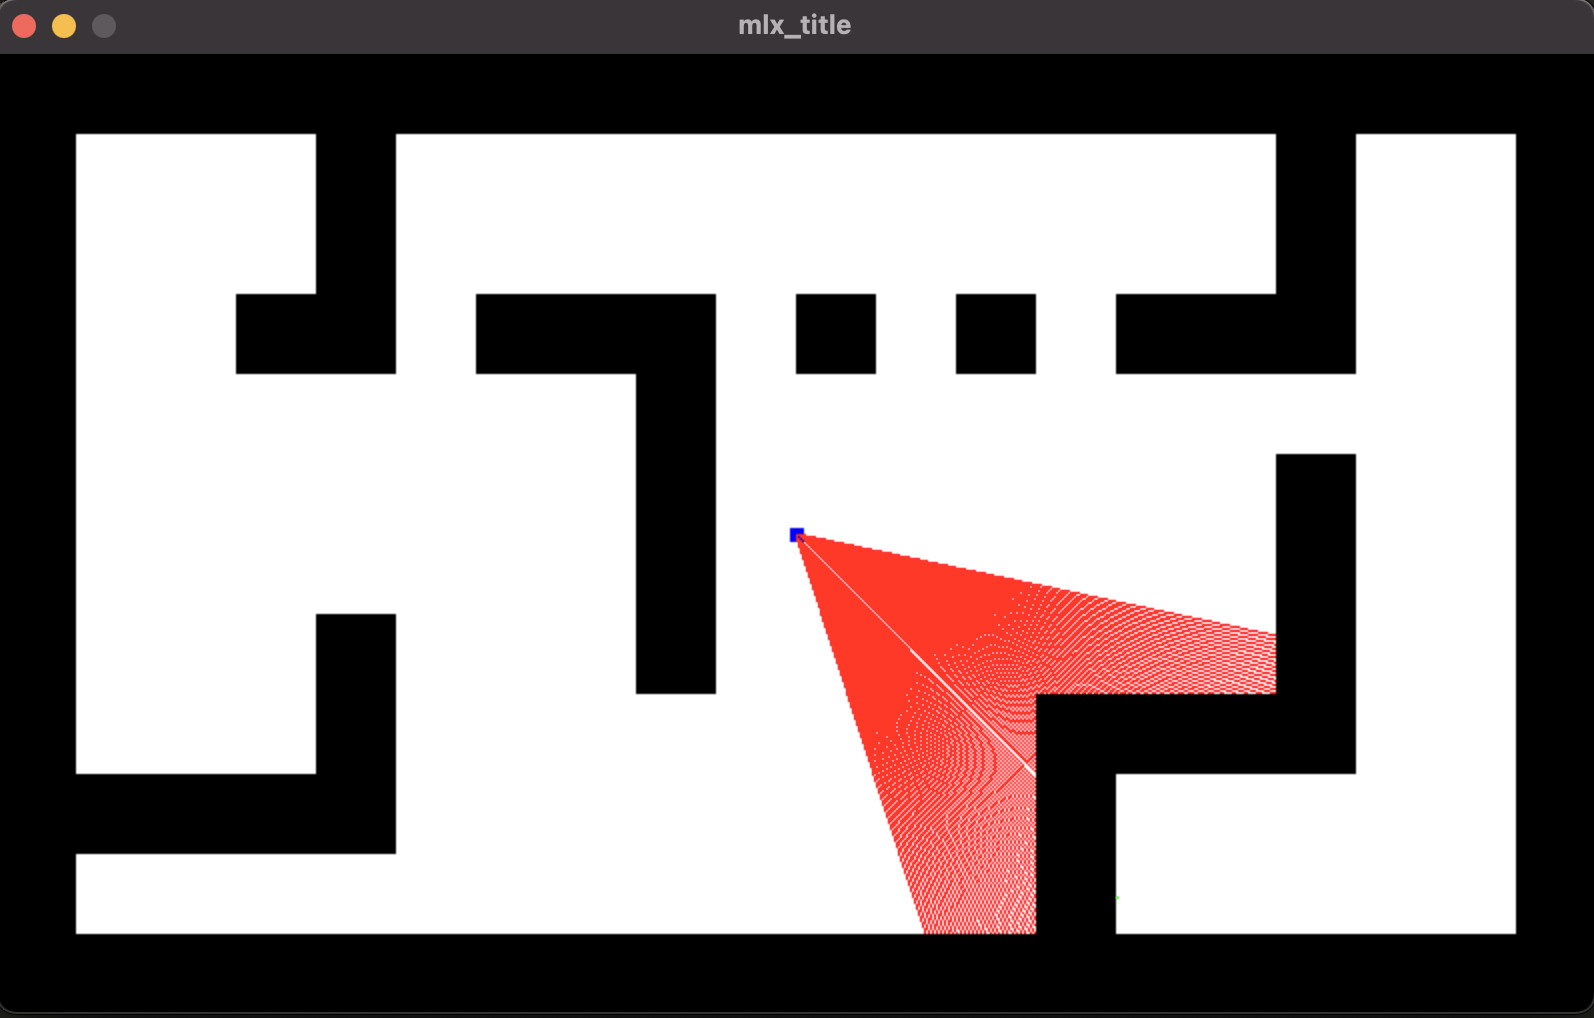
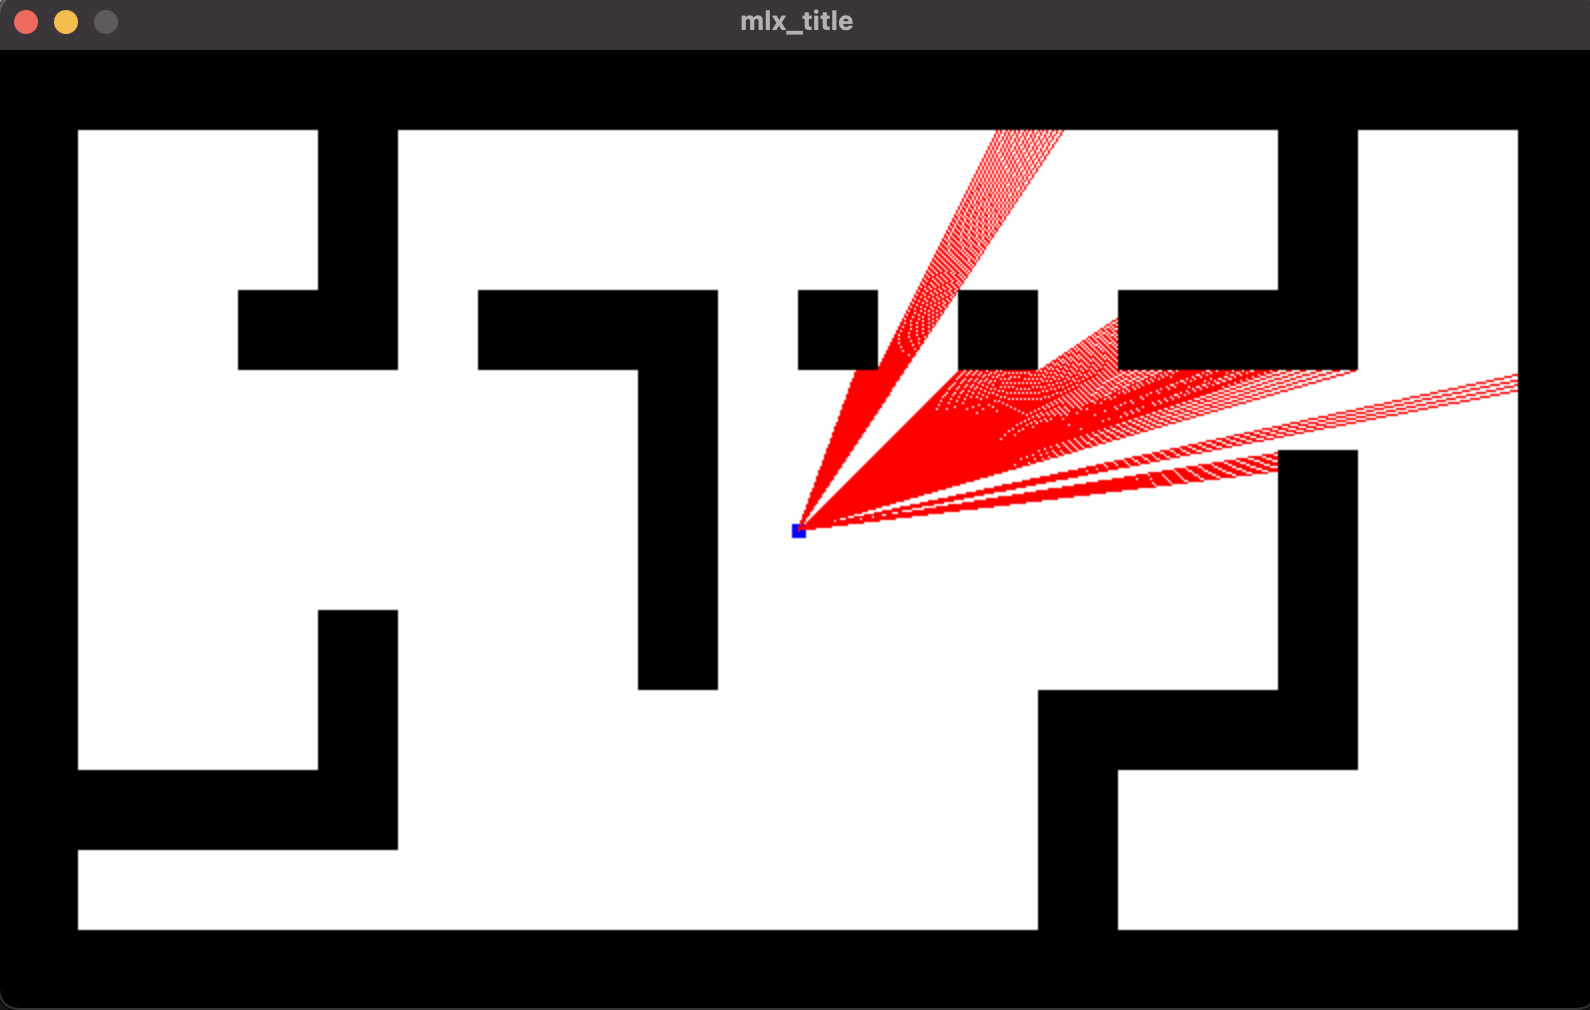
cub3d_ray4

diff --git a/_posts/42seoul/cub3d/2021-06-27-draw_ray.md b/_posts/42seoul/cub3d/2021-06-27-draw_ray.md
@@ -1,6 +1,6 @@
 ---
 layout: post
-title:  "[cub3d]"
+title:  "[cub3d]광선(ray) 구현하기"
 subtitle:   ""
 date: 2021-06-27 02:45:51 +0900
 categories: 42seoul
@@ -337,8 +337,43 @@ void    draw_line(t_god *god, double x1, double y1, double x2, double y2)
 
 * * *
 <h1>5⃣ 광선(ray)가 최종구현 및 아쉬운점</h1>
-<img src="https://kirkim.github.io/assets/img/cub3d/cub36.png" alt="ray_in_map" width="85%">
+<h2 style="color:#0e435c;">(1) 문제발생</h2>
+<img src="https://kirkim.github.io/assets/img/cub3d/cub36.png" alt="ray_in_map1" width="85%">
 
 * 최종적으로 **광선(ray)**이 잘 구현되어 나타났습니다.
-* 하지만 위의 **캡쳐화면**을 보면알듯이 <rd>특정각도</rd>에서 **광선**이 비어있는 현상이 발생하였습니다.
-* 아마 **삼각함수**의 계산과정에서 분모가 `0`이 되는 경우 **올바른 값**이 지정되지않아 생기는 <rd>버그</rd>같습니다. 좀 더 확인해봐야할 것 같습니다.
+* 하지만 회전각이 `360도`를 넘어가는 순간 <rd>오류</rd>가 생겼고 위와같이 광선이 발사 되었습니다.
+
+<h2 style="color:#0e435c;">(2) 문제해결(normalize_angle함수 구현)</h2>
+
+* <rd>각도</rd>가 <rd>2PI</rd>를 넘어가면 자동으로 케스팅되어 계산이될 줄알았지만 생각처럼되지 않았습니다.
+
+```c
+double normalize_angle(double angle)
+{
+    if (angle >= 0)
+    {
+        while (angle >= TWO_PI)
+            angle -= TWO_PI;
+    }
+    else
+    {
+        while (angle <= 0)
+            angle += TWO_PI;
+    }
+    return angle;
+}
+
+/* 수정 후 ray_init함수 */
+void ray_init(t_ray *ray, double rayAngle)
+{
+    ray->ray_angle = normalize_angle(rayAngle);
+
+    /* 코드 생략 */
+}
+```
+
+* 위와같이 `0 ~ 2PI`의 값만 가지도록 **자동으로 케스팅**해주는 함수를 만들어 줬습니다.
+* 이제 **어떠한 각도**를 주어도 유효하게 **광선을 발사**해 주었습니다.
+
+<h3 align="middle" style="color:#0e435c;">&lt; 정상적으로 광선이 발사되는 모습 &gt;</h3>
+<img src="https://kirkim.github.io/assets/img/cub3d/cub37.png" alt="ray_in_map2" width="85%">
